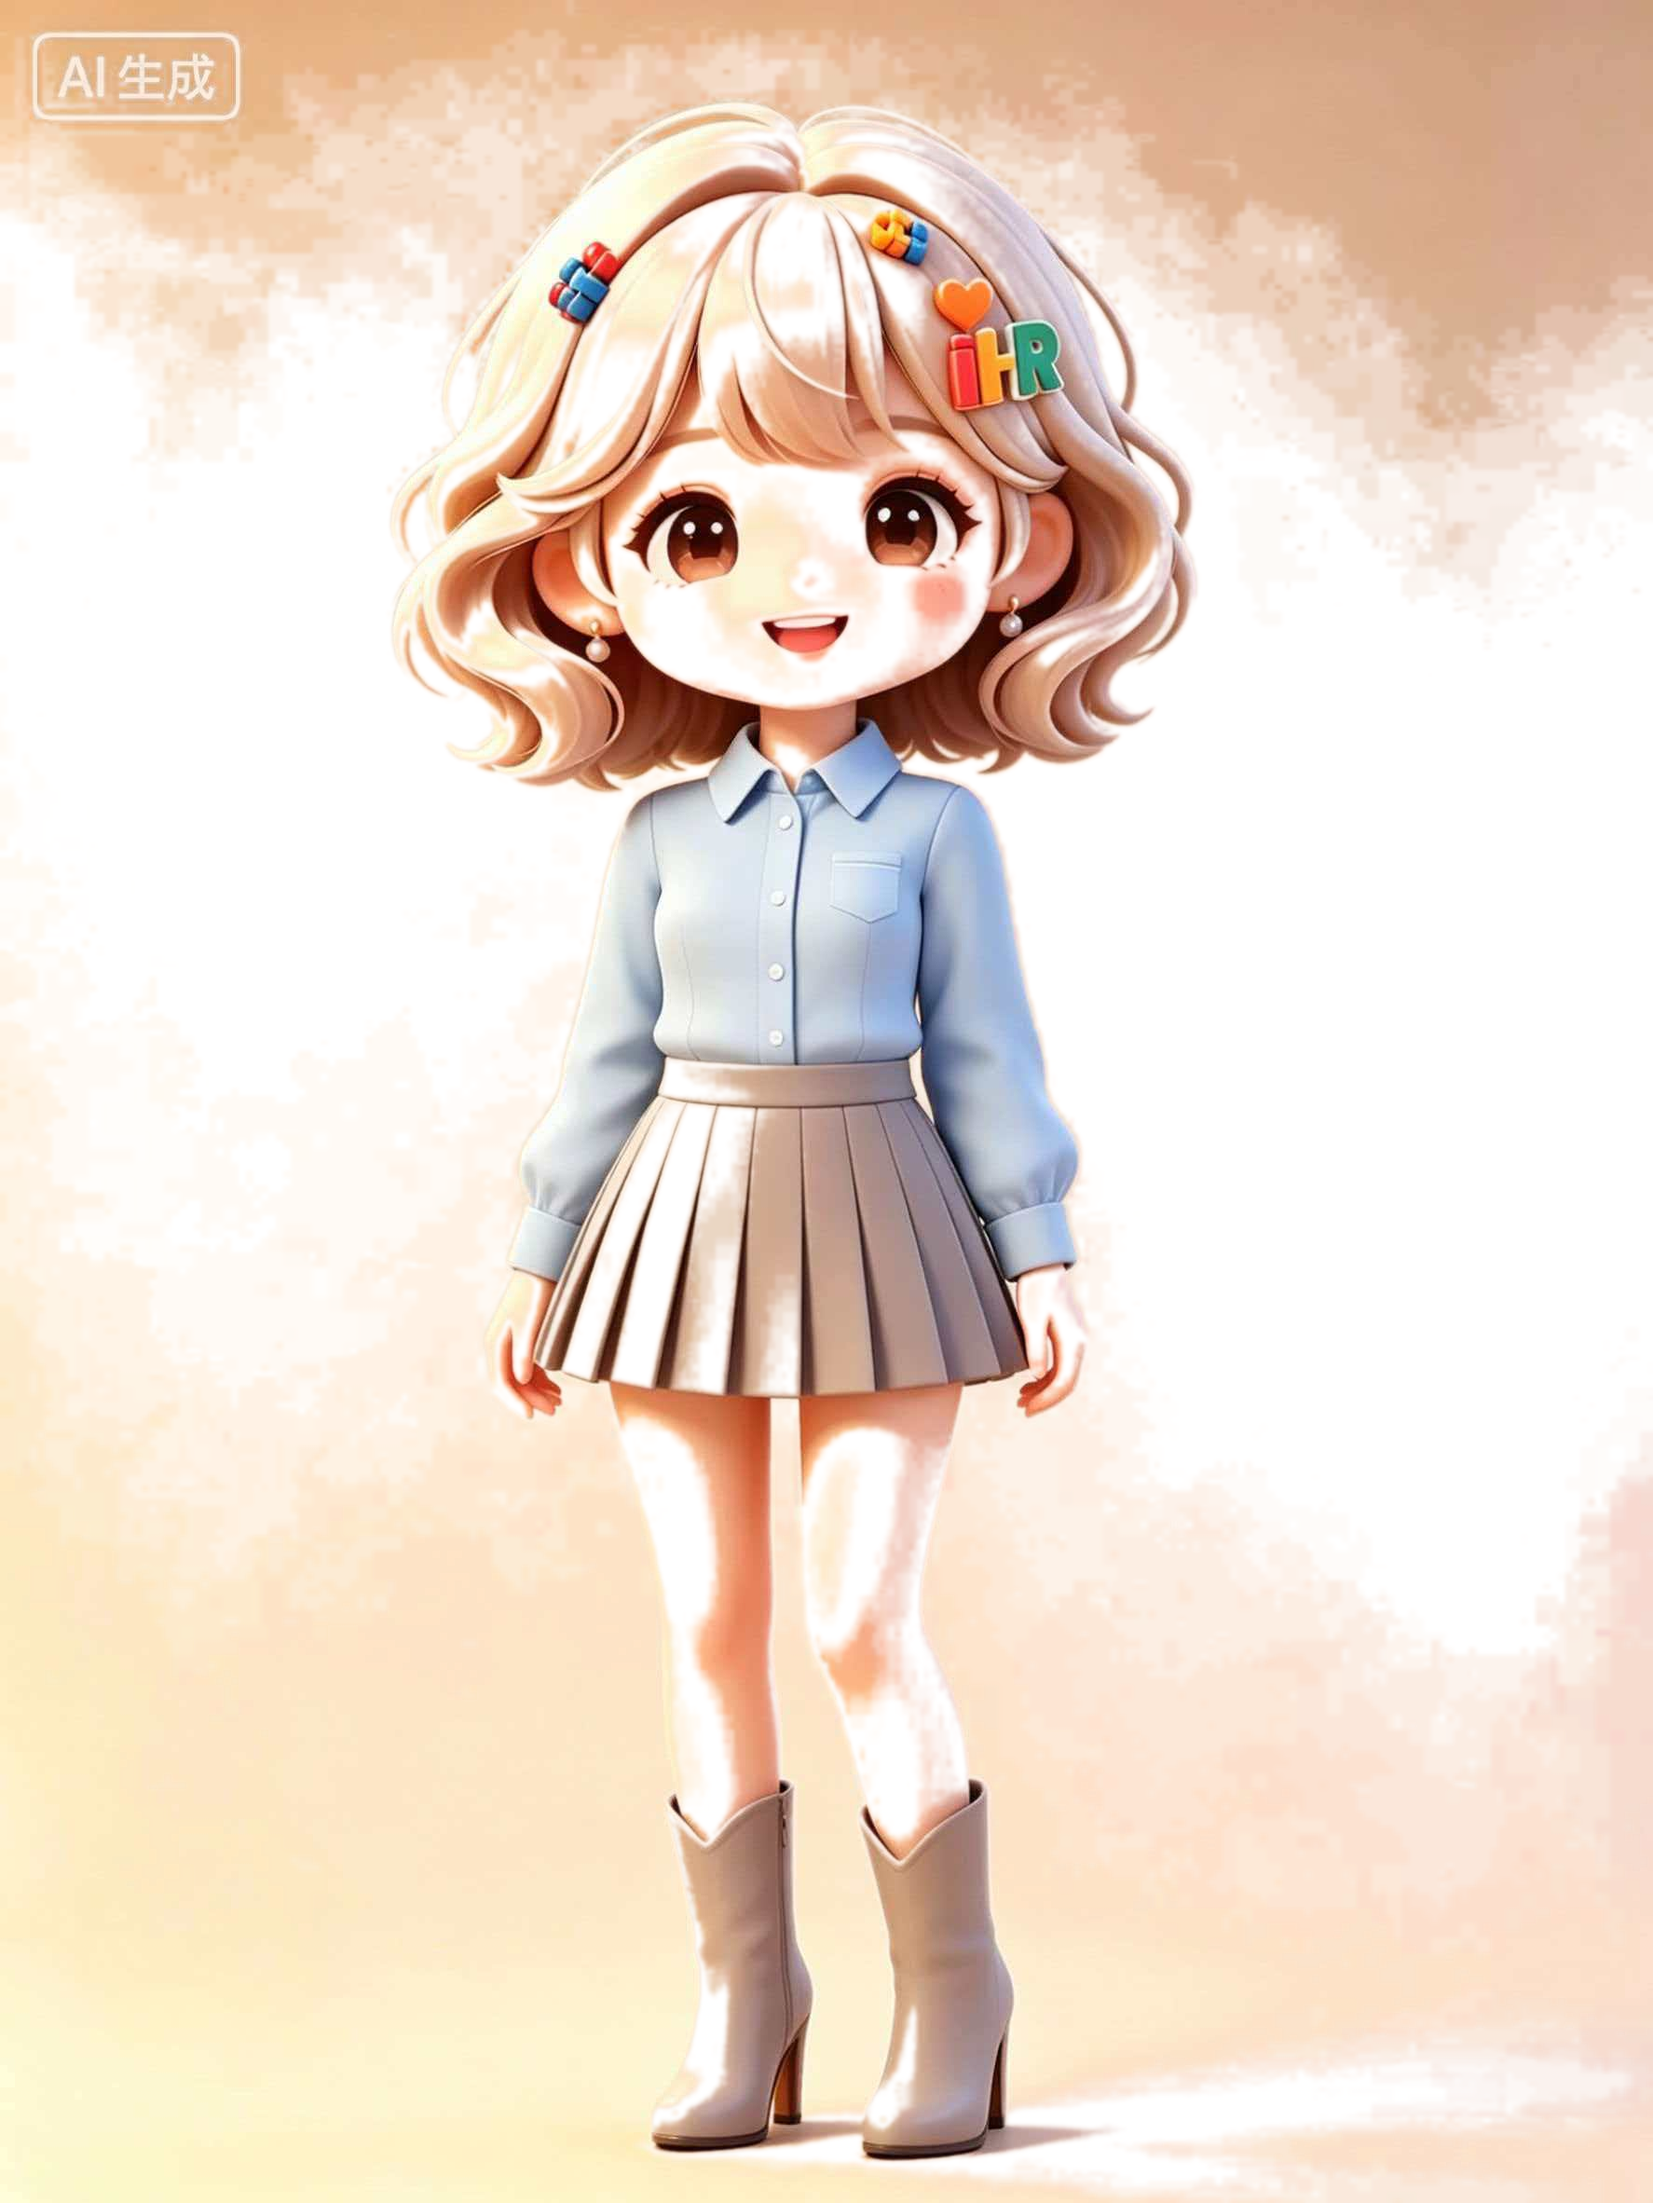
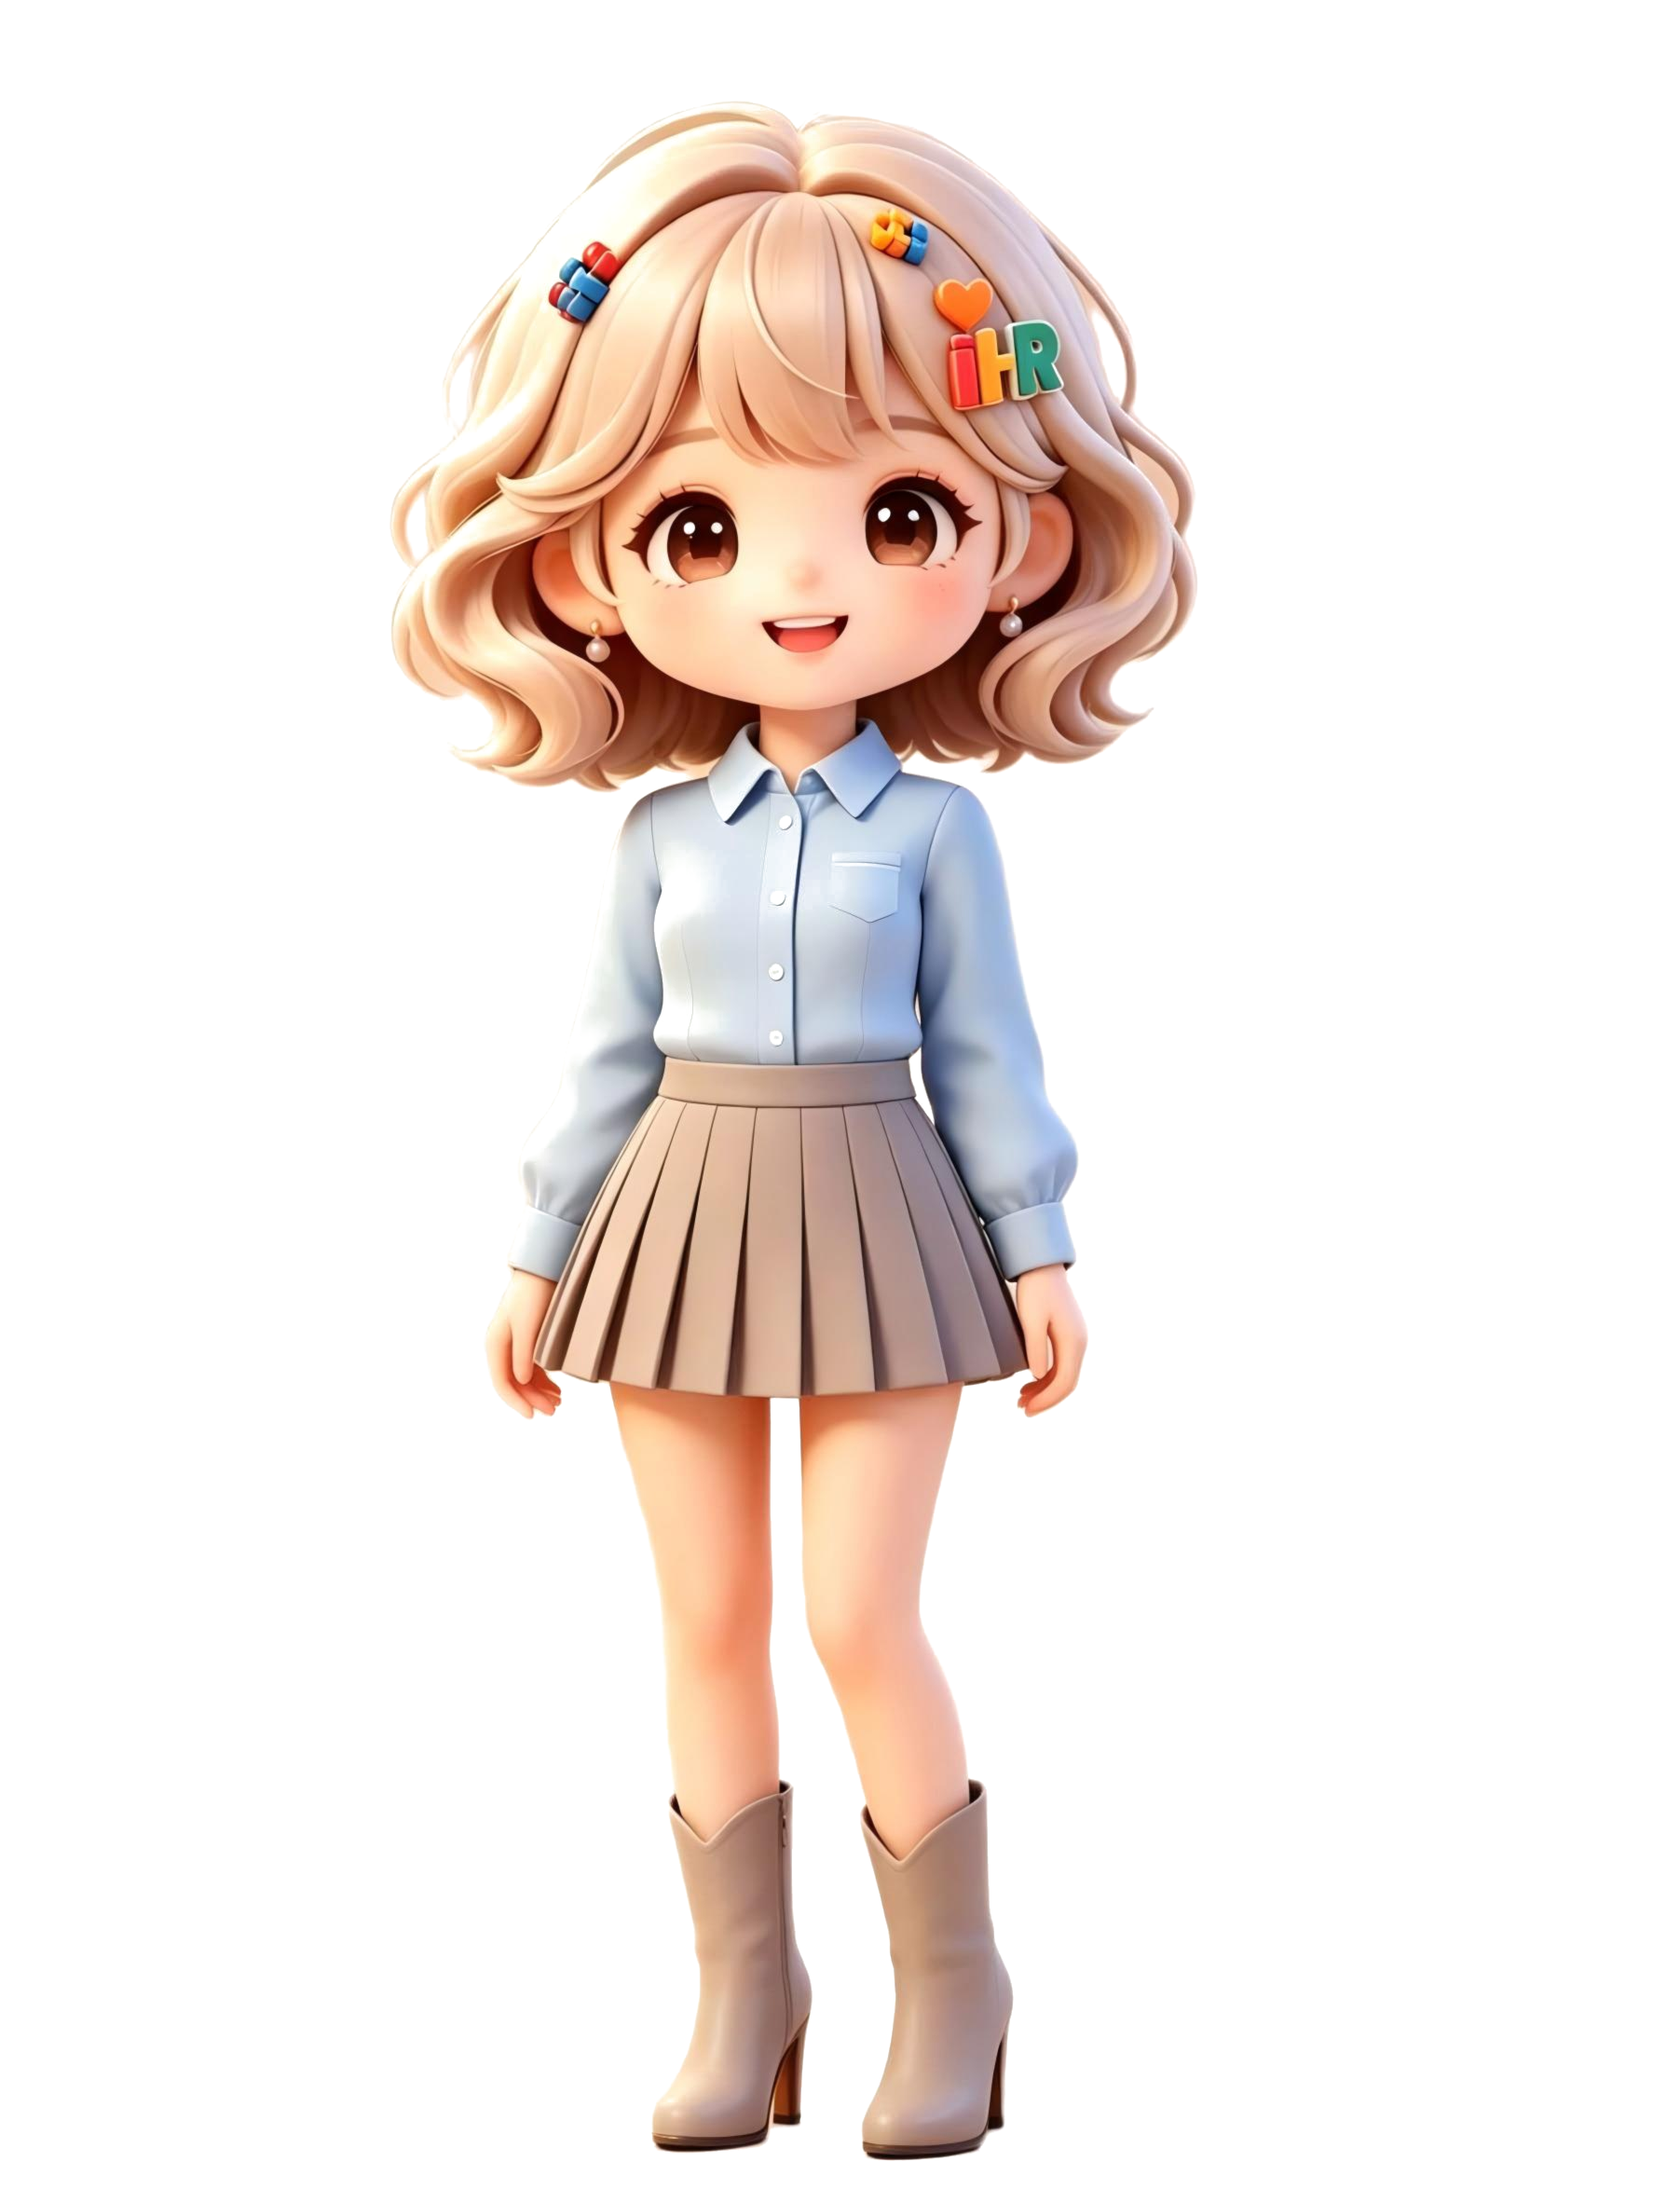
feat(landing): 替换用户精抠小i形象照，功能卡环绕间距加大

diff --git a/landing.html b/landing.html
@@ -40,8 +40,8 @@
   .hero-sub{margin-top:14px;font-size:clamp(14px,1.6vw,18px);color:var(--sub);animation:titleIn 1s .5s both}
 
   /* ===== 小i 3D 出场 ===== */
-  .stage{position:relative;width:min(88vw,760px);height:min(66vh,560px);margin-top:8px;animation:titleIn 1s .6s both}
-  .mascot-wrap{position:absolute;left:50%;bottom:6%;transform:translateX(-50%);width:min(52vw,300px);perspective:1200px;z-index:5}
+  .stage{position:relative;width:min(92vw,860px);height:min(68vh,600px);margin-top:8px;animation:titleIn 1s .6s both}
+  .mascot-wrap{position:absolute;left:50%;bottom:6%;transform:translateX(-50%);width:min(40vw,250px);perspective:1200px;z-index:5}
   .mascot-3d{position:relative;width:100%;transform-style:preserve-3d;animation:reveal3d 2.4s cubic-bezier(.22,.9,.3,1) both}
   @keyframes reveal3d{
     0%{clip-path:inset(0 0 100% 0);transform:scale(.35) rotateY(-38deg) translateY(120px) translateZ(-60px);opacity:0;filter:blur(6px)}
@@ -75,22 +75,22 @@
   .fly-card .nm{margin-top:8px;font-size:13.5px;font-weight:800;color:var(--ink);display:flex;align-items:center;gap:6px}
   .fly-card .nm i{width:8px;height:8px;border-radius:50%;display:inline-block}
   .fly-card .ds{font-size:11px;color:var(--sub);margin-top:3px;line-height:1.35;overflow:hidden;display:-webkit-box;-webkit-line-clamp:2;-webkit-box-orient:vertical}
-  .fc1{left:0;top:8%;animation:pptFly1 1s cubic-bezier(.22,1.36,.48,1) 3.1s both}
-  .fc2{right:0;top:6%;animation:pptFly2 1s cubic-bezier(.22,1.36,.48,1) 3.35s both}
-  .fc3{left:1%;top:38%;animation:pptFly3 1s cubic-bezier(.22,1.36,.48,1) 3.6s both}
-  .fc4{right:1%;top:36%;animation:pptFly4 1s cubic-bezier(.22,1.36,.48,1) 3.85s both}
-  .fc5{left:3%;top:66%;animation:pptFly5 1s cubic-bezier(.22,1.36,.48,1) 4.1s both}
-  .fc6{right:3%;top:64%;animation:pptFly6 1s cubic-bezier(.22,1.36,.48,1) 4.35s both}
-  .fc7{left:14%;top:-4%;animation:pptFly7 1s cubic-bezier(.22,1.36,.48,1) 4.6s both}
-  .fc8{right:14%;top:84%;animation:pptFly8 1s cubic-bezier(.22,1.36,.48,1) 4.85s both}
-  @keyframes pptFly1{0%{opacity:0;transform:translate(-160px,-40px) rotate(-14deg) scale(.6)}70%{opacity:1;transform:translate(14px,6px) rotate(3deg) scale(1.06)}100%{opacity:1;transform:none}}
-  @keyframes pptFly2{0%{opacity:0;transform:translate(160px,-40px) rotate(14deg) scale(.6)}70%{opacity:1;transform:translate(-14px,6px) rotate(-3deg) scale(1.06)}100%{opacity:1;transform:none}}
-  @keyframes pptFly3{0%{opacity:0;transform:translate(-180px,0) rotate(10deg) scale(.6)}70%{opacity:1;transform:translate(12px,0) rotate(-2deg) scale(1.05)}100%{opacity:1;transform:none}}
-  @keyframes pptFly4{0%{opacity:0;transform:translate(180px,0) rotate(-10deg) scale(.6)}70%{opacity:1;transform:translate(-12px,0) rotate(2deg) scale(1.05)}100%{opacity:1;transform:none}}
-  @keyframes pptFly5{0%{opacity:0;transform:translate(-140px,60px) rotate(-8deg) scale(.6)}70%{opacity:1;transform:translate(10px,-6px) rotate(2deg) scale(1.05)}100%{opacity:1;transform:none}}
-  @keyframes pptFly6{0%{opacity:0;transform:translate(140px,60px) rotate(8deg) scale(.6)}70%{opacity:1;transform:translate(-10px,-6px) rotate(-2deg) scale(1.05)}100%{opacity:1;transform:none}}
-  @keyframes pptFly7{0%{opacity:0;transform:translate(-60px,-160px) rotate(-18deg) scale(.5)}70%{opacity:1;transform:translate(6px,12px) rotate(3deg) scale(1.06)}100%{opacity:1;transform:none}}
-  @keyframes pptFly8{0%{opacity:0;transform:translate(60px,160px) rotate(18deg) scale(.5)}70%{opacity:1;transform:translate(-6px,-12px) rotate(-3deg) scale(1.06)}100%{opacity:1;transform:none}}
+  .fc1{left:-6%;top:4%;animation:pptFly1 1.1s cubic-bezier(.22,1.36,.48,1) 3.1s both}
+  .fc2{right:-6%;top:2%;animation:pptFly2 1.1s cubic-bezier(.22,1.36,.48,1) 3.35s both}
+  .fc3{left:-9%;top:34%;animation:pptFly3 1.1s cubic-bezier(.22,1.36,.48,1) 3.6s both}
+  .fc4{right:-9%;top:32%;animation:pptFly4 1.1s cubic-bezier(.22,1.36,.48,1) 3.85s both}
+  .fc5{left:-4%;top:68%;animation:pptFly5 1.1s cubic-bezier(.22,1.36,.48,1) 4.1s both}
+  .fc6{right:-4%;top:66%;animation:pptFly6 1.1s cubic-bezier(.22,1.36,.48,1) 4.35s both}
+  .fc7{left:18%;top:-10%;animation:pptFly7 1.1s cubic-bezier(.22,1.36,.48,1) 4.6s both}
+  .fc8{right:18%;top:88%;animation:pptFly8 1.1s cubic-bezier(.22,1.36,.48,1) 4.85s both}
+  @keyframes pptFly1{0%{opacity:0;transform:translate(-220px,-70px) rotate(-18deg) scale(.55)}70%{opacity:1;transform:translate(18px,8px) rotate(4deg) scale(1.06)}100%{opacity:1;transform:none}}
+  @keyframes pptFly2{0%{opacity:0;transform:translate(220px,-70px) rotate(18deg) scale(.55)}70%{opacity:1;transform:translate(-18px,8px) rotate(-4deg) scale(1.06)}100%{opacity:1;transform:none}}
+  @keyframes pptFly3{0%{opacity:0;transform:translate(-260px,0) rotate(14deg) scale(.55)}70%{opacity:1;transform:translate(14px,0) rotate(-3deg) scale(1.05)}100%{opacity:1;transform:none}}
+  @keyframes pptFly4{0%{opacity:0;transform:translate(260px,0) rotate(-14deg) scale(.55)}70%{opacity:1;transform:translate(-14px,0) rotate(3deg) scale(1.05)}100%{opacity:1;transform:none}}
+  @keyframes pptFly5{0%{opacity:0;transform:translate(-200px,90px) rotate(-12deg) scale(.55)}70%{opacity:1;transform:translate(12px,-8px) rotate(3deg) scale(1.05)}100%{opacity:1;transform:none}}
+  @keyframes pptFly6{0%{opacity:0;transform:translate(200px,90px) rotate(12deg) scale(.55)}70%{opacity:1;transform:translate(-12px,-8px) rotate(-3deg) scale(1.05)}100%{opacity:1;transform:none}}
+  @keyframes pptFly7{0%{opacity:0;transform:translate(-80px,-220px) rotate(-22deg) scale(.48)}70%{opacity:1;transform:translate(8px,14px) rotate(4deg) scale(1.06)}100%{opacity:1;transform:none}}
+  @keyframes pptFly8{0%{opacity:0;transform:translate(80px,220px) rotate(22deg) scale(.48)}70%{opacity:1;transform:translate(-8px,-14px) rotate(-4deg) scale(1.06)}100%{opacity:1;transform:none}}
   .fly-card{animation-fill-mode:both}
   .fly-card:hover{animation-play-state:running}
 
